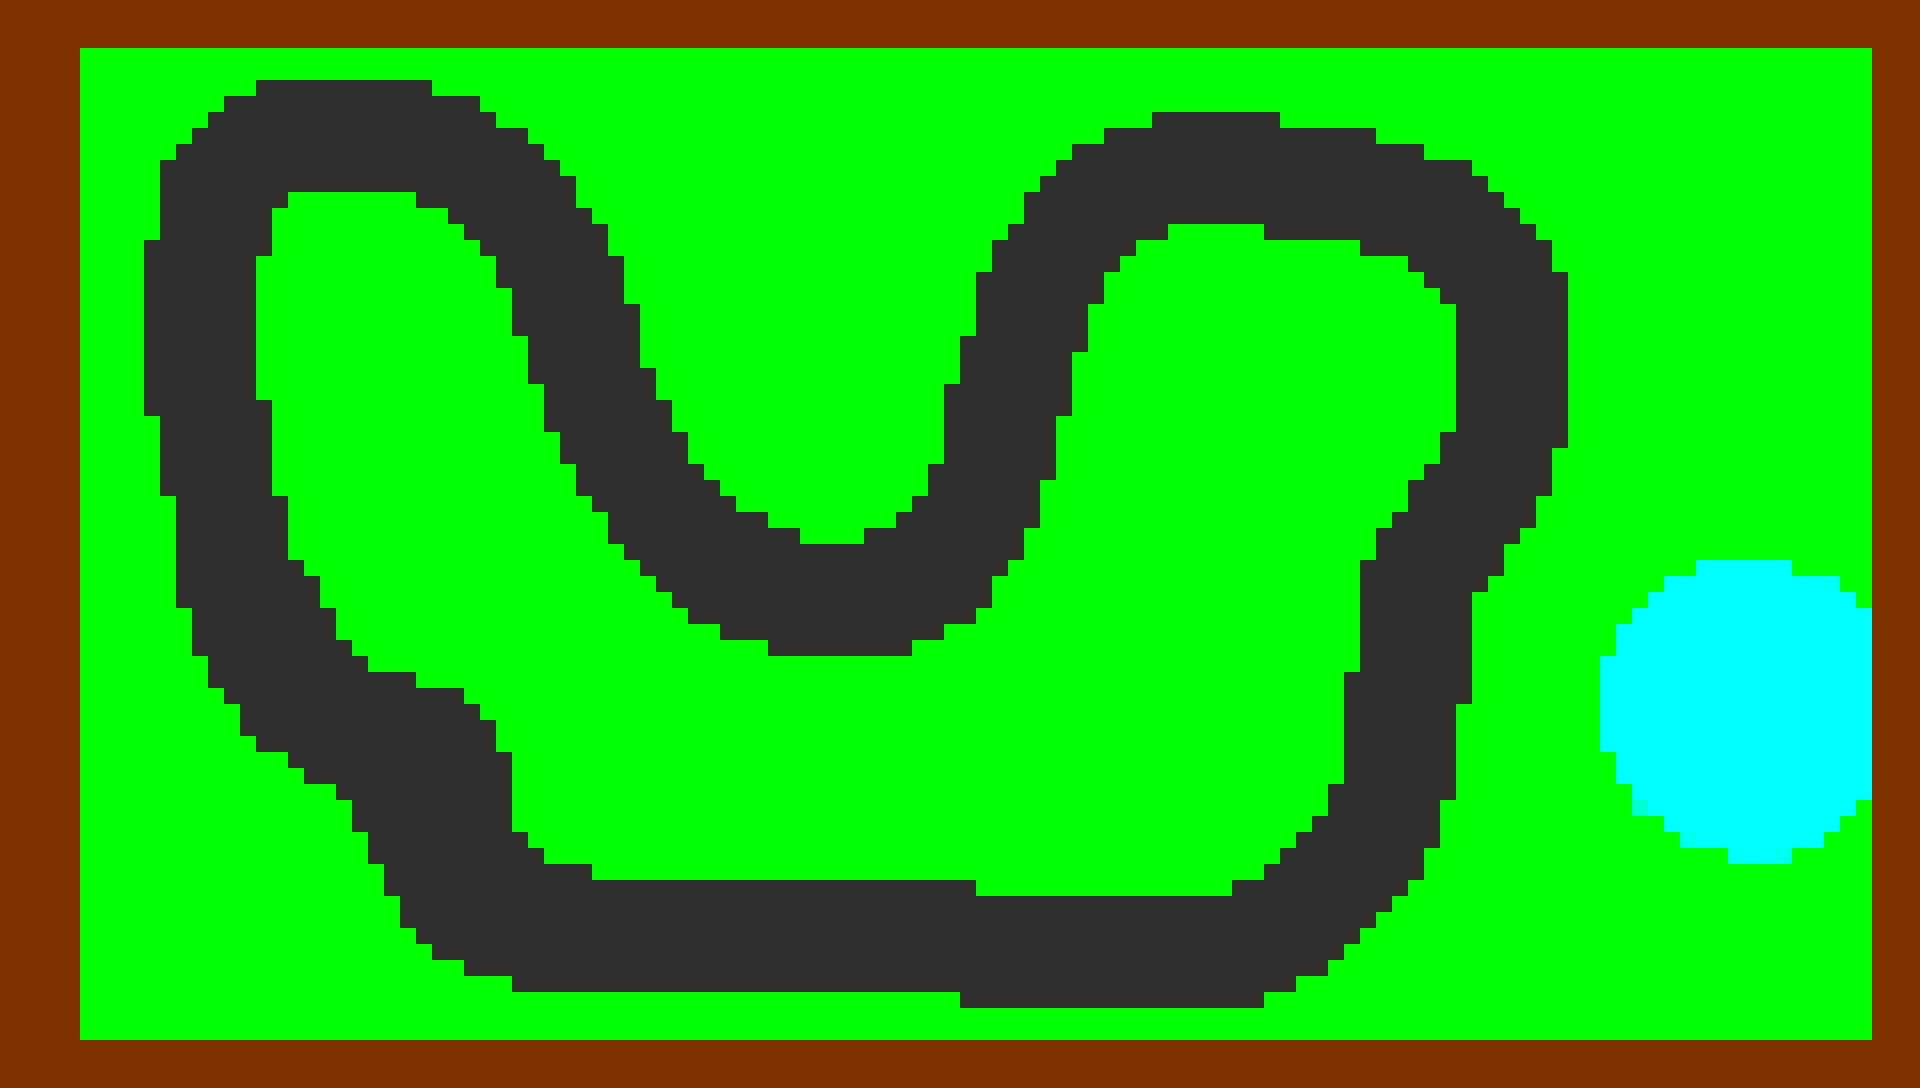
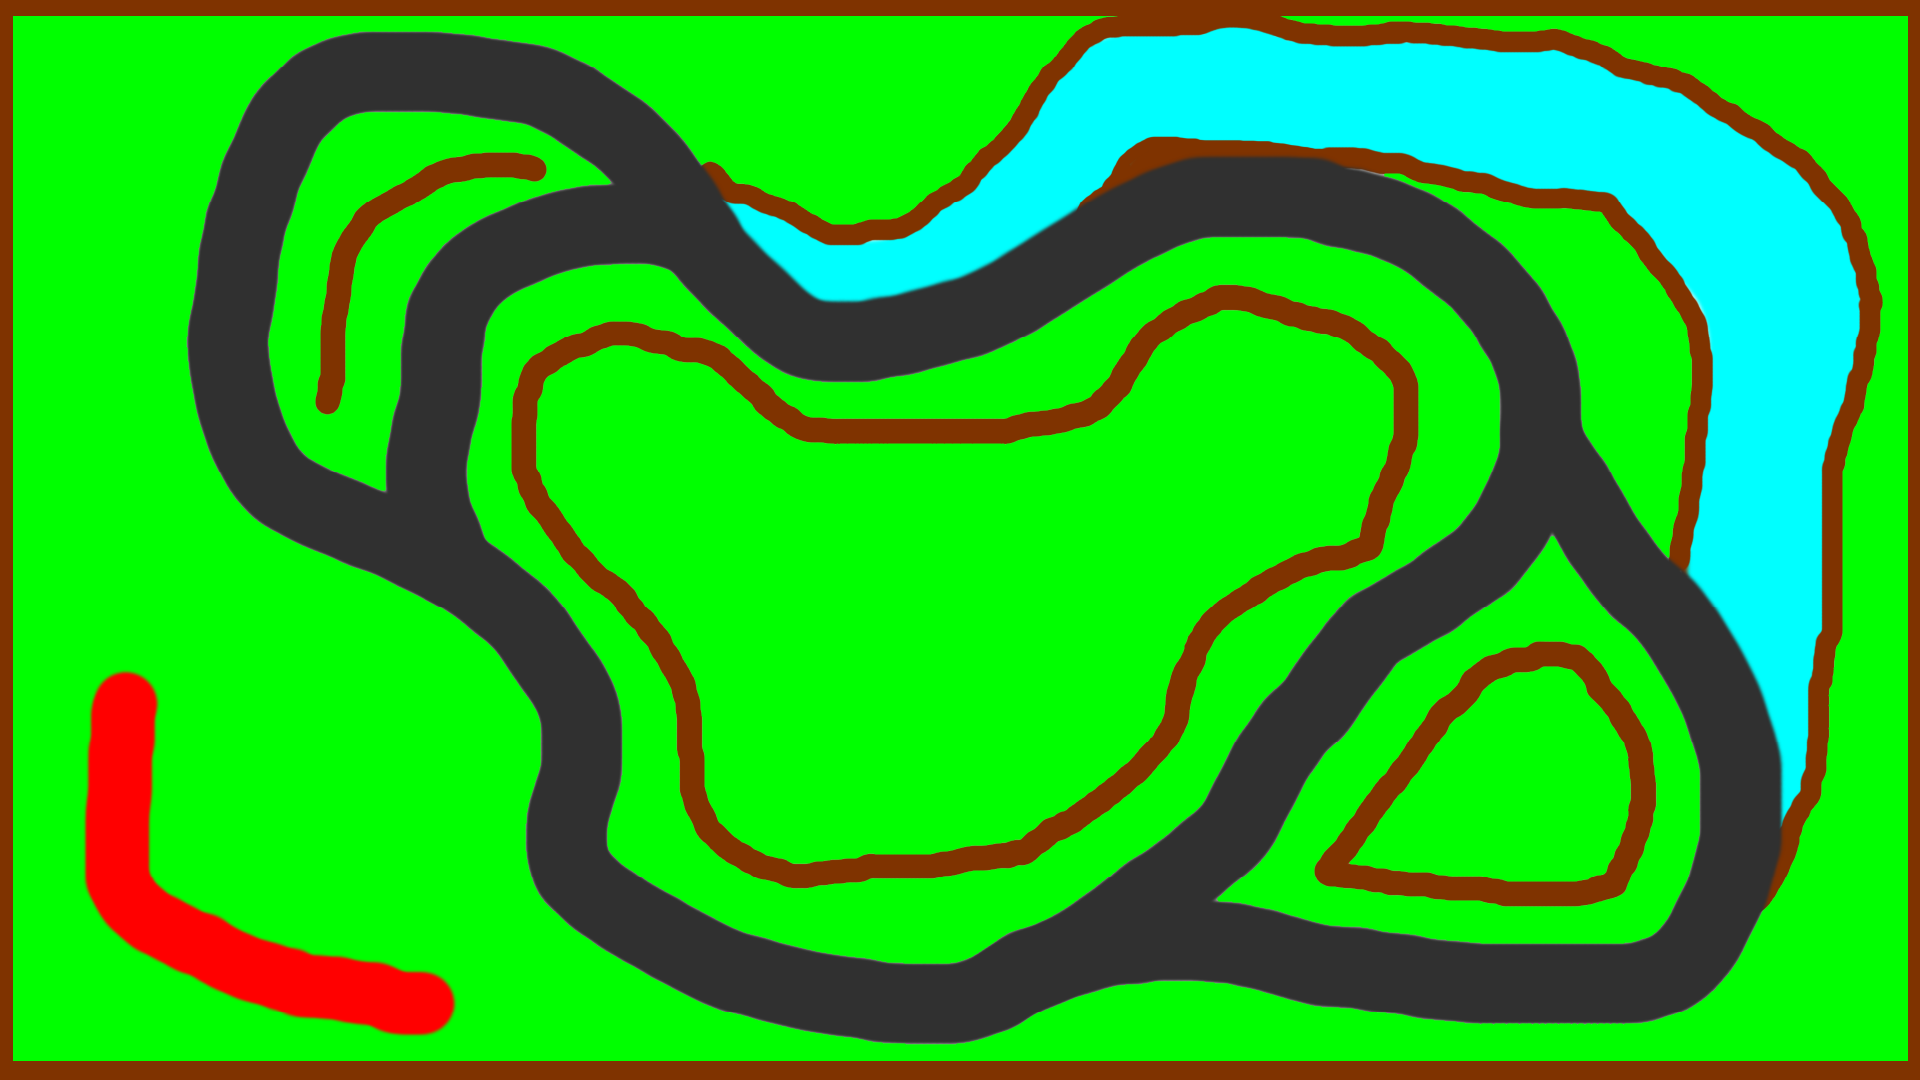
ajout textures pour circuit et creation d'un circuit de test pour futures features

diff --git a/model/game_model.py b/model/game_model.py
@@ -17,7 +17,7 @@ class GameModel:
         """ Charge et génère le circuit ainsi que les voitures """
         type_grid = convert_track("assets/tracks/01_test_track.png") # a modifier pour permettre choix des circuits
 
-        self.circuit_texture_render = load("assets/tracks/01_test_track.png").convert_alpha()
+        self.circuit_texture_render = load("assets/tracks/01_test_track_texture.png").convert_alpha()
         self.circuit_texture_render = scale(self.circuit_texture_render, (WINDOW_WIDTH,WINDOW_HEIGHT)) #Changements importans ici pour choisir la bonne track 
         grid = [[RoadTile(col=col_idx, row=row_idx, road_type=type_grid[row_idx][col_idx])for col_idx in range(GRID_COLS)] for row_idx in range(GRID_ROWS)]
         self.circuit = Circuit(grid=grid)

diff --git a/model/road_tile.py b/model/road_tile.py
@@ -10,7 +10,13 @@ class RoadTile:
         self.row = row # Indice de la ligne 
         self.sprite: pygame.Surface | None = None # Stockage de l'image de la tuile
         self.road_type = road_type
-    def get_sprite(self, tile_size: int = TILE_SIZE) -> pygame.Surface:
+    
+    
+    
+    
+    
+    
+    def get_sprite(self, tile_size: int = TILE_SIZE) -> pygame.Surface: #CETTE FONCTION EST INUTILE DORENAVANT. PLUS D'UTILISATIONS DES SPRITES
         """ Retourne le sprite graphique de la tuile """
 
         # Si le sprite existe et est à la bonne taille on le renvoie directement
